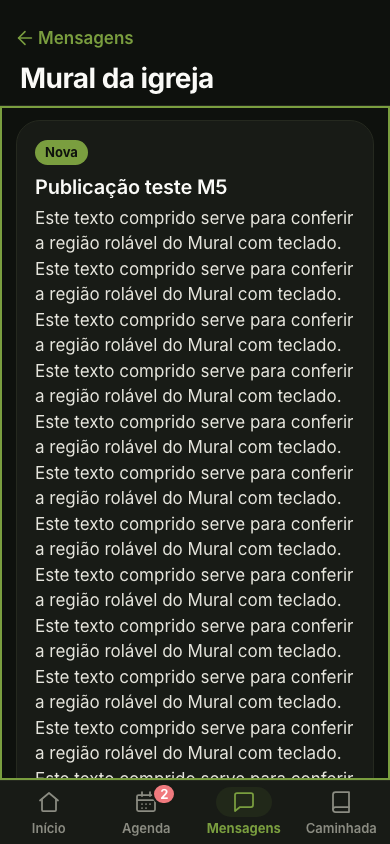
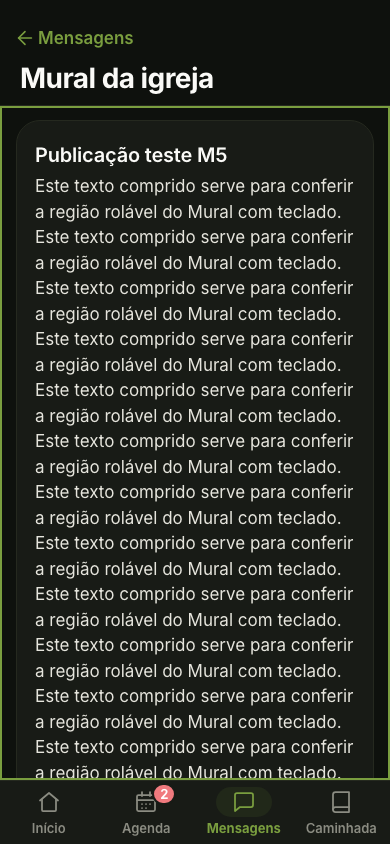
Corrige foco do contêiner rolável do membro

Changed region(s): [[0.0923, 0.154, 0.9231, 0.9242]]

diff --git a/app/service/MobileApp.tsx b/app/service/MobileApp.tsx
@@ -400,12 +400,12 @@ function MobileMembro({
           {sub ? (
             <>
               <Acao className="m6-back" onClick={voltar}><span className="m6-back-ic"><Icon name="voltar" size={22} /></span>{tabTitle}</Acao>
-              <h1 className="m-h1 sub">{subTitle}</h1>
+              <h1 id="m-screen-title" className="m-h1 sub">{subTitle}</h1>
             </>
           ) : tab === "perfil" ? (
             <>
               <Acao className="m6-back" onClick={() => go(tabAntesPerfil)}><span className="m6-back-ic"><Icon name="voltar" size={22} /></span>{tabLabel(tabAntesPerfil, traduzirUi)}</Acao>
-              <h1 className="m-h1 sub">{tabTitle}</h1>
+              <h1 id="m-screen-title" className="m-h1 sub">{tabTitle}</h1>
             </>
           ) : (
             <>
@@ -418,7 +418,7 @@ function MobileMembro({
               </div>
               {tab === "inicio" ? (
                 <>
-                  <h1 className="m-h1">{saudacao() === "Bom dia" ? traduzirUi("Bom dia, {nome}", { nome: person.name.split(" ")[0] }) : saudacao() === "Boa tarde" ? traduzirUi("Boa tarde, {nome}", { nome: person.name.split(" ")[0] }) : traduzirUi("Boa noite, {nome}", { nome: person.name.split(" ")[0] })}</h1>
+                  <h1 id="m-screen-title" className="m-h1">{saudacao() === "Bom dia" ? traduzirUi("Bom dia, {nome}", { nome: person.name.split(" ")[0] }) : saudacao() === "Boa tarde" ? traduzirUi("Boa tarde, {nome}", { nome: person.name.split(" ")[0] }) : traduzirUi("Boa noite, {nome}", { nome: person.name.split(" ")[0] })}</h1>
                   <p className="m-hsub">{(() => {
                     /* v7 4.19: o mais relevante de hoje; sem nada, a data */
                     const doDia = events.filter((e) => e.eventDate === hoje);
@@ -437,14 +437,14 @@ function MobileMembro({
                   })()}</p>
                 </>
               ) : (
-                <h1 className="m-h1">{tabTitle}</h1>
+                <h1 id="m-screen-title" className="m-h1">{tabTitle}</h1>
               )}
             </>
           )}
         </div>
 
         {/* marco principal só no app de verdade; a prévia do líder fica dentro do painel, que já tem o seu */}
-        <div className="m-scroll" ref={scrollRef} role={mode === "self" ? "main" : undefined}>
+        <div className="m-scroll" ref={scrollRef} role={mode === "self" ? "main" : undefined} tabIndex={0} aria-labelledby="m-screen-title">
           {tab === "inicio" && (
             <InicioV6 contribuir={pix} onContribuir={() => go("caminhada", "contribuir")} person={person} member={member} ministries={ministries} members={members} people={people} events={events} roster={roster} cards={cards}
               announcements={muralOn ? announcements : []} unreadIds={unreadIds} kidsChildren={kidsChildren} childGuardians={childGuardians}

diff --git a/app/service/membro/Mural.tsx b/app/service/membro/Mural.tsx
@@ -25,25 +25,6 @@ export function MuralV6({ announcements, unreadIds, person, onReadAnnouncement, 
   const enviado = useRef(new Set<string>());
   const root = useRef<HTMLDivElement>(null);
   useEffect(() => {
-    const region = root.current?.closest<HTMLElement>(".m-scroll");
-    if (!region) return;
-    const previous = {
-      role: region.getAttribute("role"),
-      label: region.getAttribute("aria-label"),
-      tabIndex: region.getAttribute("tabindex"),
-    };
-    region.setAttribute("role", "region");
-    region.setAttribute("aria-label", "Publicações do Mural");
-    region.setAttribute("tabindex", "0");
-    region.classList.add("mural-scroll-region");
-    return () => {
-      if (previous.role === null) region.removeAttribute("role"); else region.setAttribute("role", previous.role);
-      if (previous.label === null) region.removeAttribute("aria-label"); else region.setAttribute("aria-label", previous.label);
-      if (previous.tabIndex === null) region.removeAttribute("tabindex"); else region.setAttribute("tabindex", previous.tabIndex);
-      region.classList.remove("mural-scroll-region");
-    };
-  }, []);
-  useEffect(() => {
     const observer = new IntersectionObserver((entries) => {
       for (const entry of entries) {
         const id = (entry.target as HTMLElement).dataset.announcement;
@@ -62,7 +43,7 @@ export function MuralV6({ announcements, unreadIds, person, onReadAnnouncement, 
     article?.focus({ preventScroll: true });
   }, [initialId]);
   if (announcements.length === 0) {
-    return <div className="m6-sec0" ref={root}><Cartao estilo="app"><div className="m6-ct">Nada no Mural ainda</div><div className="m6-meta">As publicações da igreja aparecem aqui.</div></Cartao></div>;
+    return <div className="m6-sec0"><Cartao estilo="app"><div className="m6-ct">Nada no Mural ainda</div><div className="m6-meta">As publicações da igreja aparecem aqui.</div></Cartao></div>;
   }
   return (
     <div className="m6-sec0" ref={root}>

diff --git a/evolucoes/service_app/service-app.css b/evolucoes/service_app/service-app.css
@@ -480,7 +480,7 @@ em { font-style:italic; }
 .m-h1 em { color:var(--olive); font-weight:600; }
 .m-scroll { flex:1; overflow-y:auto; padding:18px 18px 20px; }
 .m-scroll::-webkit-scrollbar { width:0; }
-.m-scroll.mural-scroll-region:focus-visible { outline:2px solid var(--olive); outline-offset:-2px; }
+.m-scroll:focus-visible { outline:2px solid var(--olive); outline-offset:-2px; }
 .m-card { background:var(--graphite); border:0.5px solid var(--border-2); border-radius:var(--r-lg); padding:16px; margin-bottom:14px; }
 .m-card.urgent { border-color:var(--amber-line); }
 .m-card-top { display:flex; align-items:center; justify-content:space-between; margin-bottom:12px; }

diff --git a/docs/service-v7/historias/M5-mural-foco-teclado.md b/docs/service-v7/historias/M5-mural-foco-teclado.md
@@ -16,6 +16,7 @@ Fonte: AUDITORIA-UI-2026-10-20.md seção 4.
 
 ## Arquivos (trilho)
 - `app/service/membro/Mural.tsx`
+- `app/service/MobileApp.tsx`
 - `evolucoes/service_app/service-app.css` (somente foco da região do Mural)
 - `docs/service-v7/historias/M5-mural-foco-teclado.md`
 - `docs/service-v7/historias/screenshots/M5-*.png`
@@ -25,11 +26,11 @@ Fonte: AUDITORIA-UI-2026-10-20.md seção 4.
 
 ## Validação
 - Antes: a árvore DOM da tela `/service?maba=mensagens&mtela=mural` não tinha região rolável com `tabIndex`; a sequência de Tab pulava do menu inferior para o botão de voltar. A única publicação inicial não existia, então criei “Publicação teste M5” pelo formulário de gestão.
-- Depois: Tab alcançou `.m-scroll` com `tabIndex=0`, `role=region`, `aria-label="Publicações do Mural"`; o DOM confirmou `overflow-y:auto`, `scrollHeight=1276`, `clientHeight=674` e contorno de foco sólido de 2px na cor da igreja.
-- Axe encontrou uma violação moderada `region` (“All page content should be contained by landmarks”); o teste DOM de foco foi o critério funcional pedido. Não descrevo o axe como limpo.
-- Foto aberta: `docs/service-v7/historias/screenshots/M5-mural-foco.png`, 390×844, com publicação visível e foco no contêiner rolável. `__medir(44)`: 5 ações, 273 palavras, acima do limite do app de 12 ações/80 palavras por causa do texto longo usado para forçar rolagem. MD5 `90268f9e4d92ff00f0ae5791ce6e5f63`. Selo do Next ausente; animações concluídas antes da captura.
-- Limpeza local: apaguei a publicação temporária e registros de leitura pelo ID `762ff224-69fe-46be-82f6-ab0462b0685f`; consulta final retornou `remaining_test_announcement=0`.
-- `npx tsc --noEmit -p .`, ESLint em `Mural.tsx` e `scripts/check-service-componentes.ts`: passaram.
+- Antes da correção, o efeito do Mural trocava o `role="main"` de `.m-scroll` por `role="region"`, causando uma violação de landmark no axe.
+- Depois: `.m-scroll` mantém `role="main"`, recebe `tabIndex=0` e nomeia-se pelo `h1` ativo com `aria-labelledby="m-screen-title"`. No Mural, o nome acessível é “Mural da igreja”, `overflow-y:auto`, `scrollHeight=1244`, `clientHeight=674`; Tab a partir de Voltar chega ao contêiner e `:focus-visible` mostra contorno sólido de 2px. No axe do Mural: `violations: []`. Na Agenda, Tab também chega ao contêiner focado e nomeado “Agenda”; axe não reporta violação de landmark (há 16 nós em `color-contrast`, não relacionados a landmark).
+- Foto aberta: `docs/service-v7/historias/screenshots/M5-mural-foco.png`, 390×844, com publicação visível, foco verde no contêiner rolável e selo do Next ausente. A animação estava parada. `__medir(44)`: 5 ações e 272 palavras, acima do limite do app de 12 ações/80 palavras devido ao texto longo da publicação temporária usado para confirmar rolagem. MD5 `980e7c823032a226bdf1f4d1460e6a9a`.
+- A publicação temporária “Publicação teste M5” foi criada pelo formulário e removida, junto com os registros dependentes. Consulta final: zero publicações com esse título.
+- `npx tsc --noEmit -p .`, ESLint em `MobileApp.tsx` e `Mural.tsx` e `scripts/check-service-componentes.ts`: passaram.
 
 ## Notas
-O contêiner rolável recebe semântica e foco apenas enquanto Mural está montado; o efeito restaura os atributos anteriores ao sair da tela. A linha M5 ainda consta no índice de PENDENTES porque as reservas simultâneas I5 e I2 também incluem esse arquivo, portanto sua edição será coordenada na história I2 sem sobrepor os trilhos.
+Todo contêiner rolável do app do membro recebe foco e nome pelo título atual da tela; a região principal continua sendo `main` em todas as abas.
